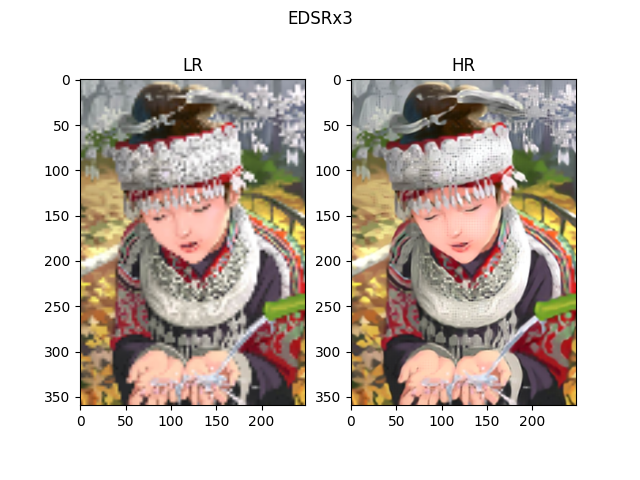
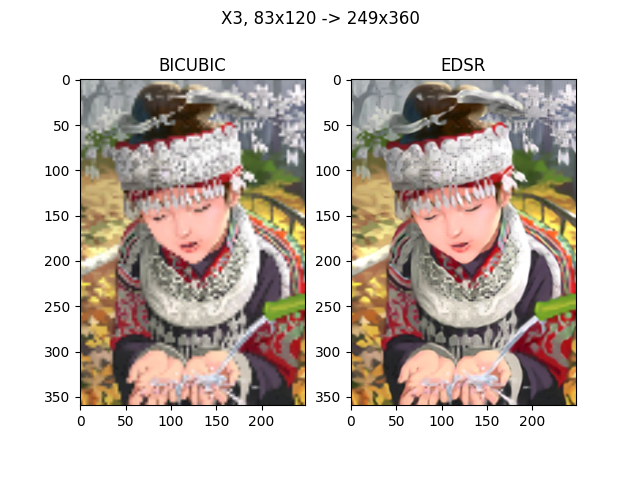
update figure

Changed region(s): [[0.3438, 0.0, 0.6562, 0.0625], [0.6875, 0.0938, 0.7812, 0.1562], [0.25, 0.0938, 0.3438, 0.1562]]

diff --git a/figs/plt.py b/figs/plt.py
@@ -1,0 +1,18 @@
+import matplotlib.pyplot as plt
+import cv2
+
+lr = cv2.imread('../datasets/DIV2K/DIV2K_test_lr_unknown/11.png')
+edsr = cv2.imread('../experiment/x3_Dila_ensemble/results-Demo/11_x3_SR.png')
+lh, lw, _ = lr.shape
+h, w, _ = edsr.shape
+bicubic = cv2.resize(lr, (w, h))
+
+fig, axs = plt.subplots(1, 2, num='Result X3')
+fig.suptitle('X3, {}x{} -> {}x{}'.format(lw, lh, w, h))
+axs[0].set_title('BICUBIC')
+axs[0].imshow(cv2.cvtColor(bicubic, cv2.COLOR_BGR2RGB))
+
+axs[1].set_title('EDSR')
+axs[1].imshow(cv2.cvtColor(edsr, cv2.COLOR_BGR2RGB))
+
+fig.savefig('./Result.png')
